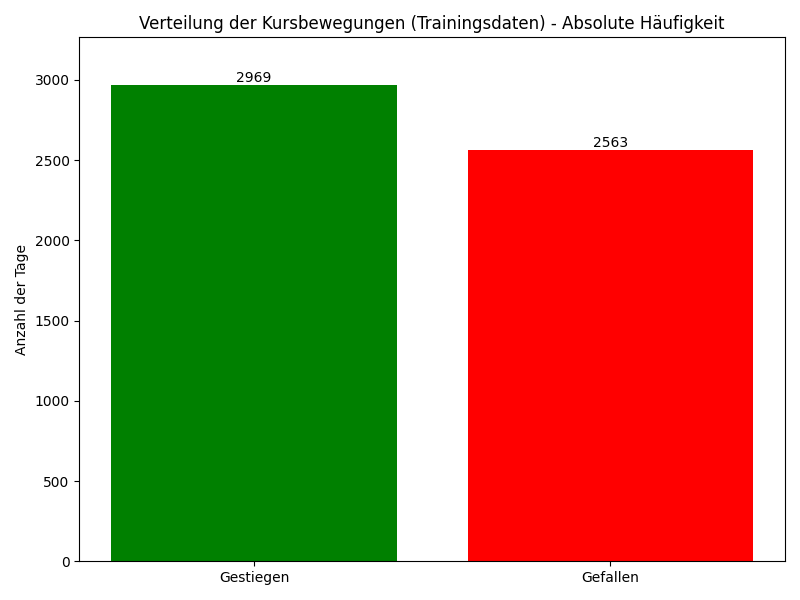
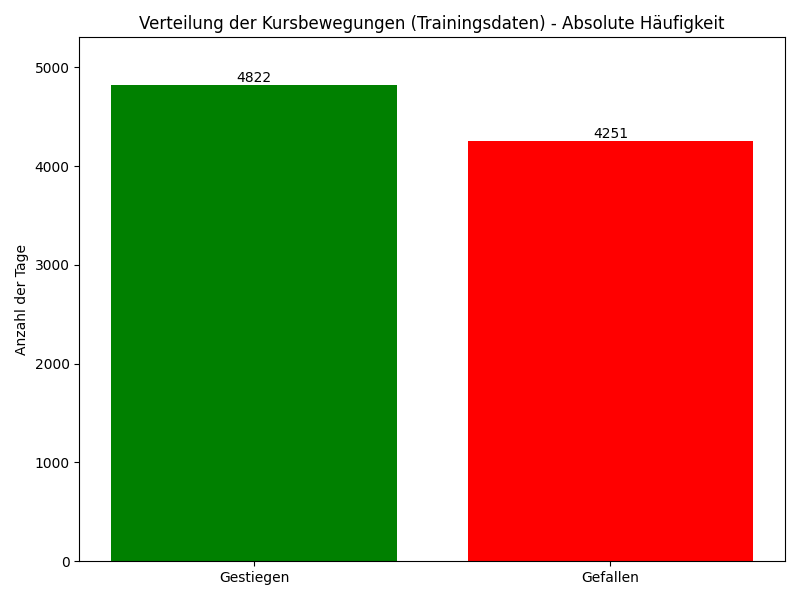
changed Trainingsdataplots

diff --git a/Experiment_2/PriceIncreaseAnalyzer.py b/Experiment_2/PriceIncreaseAnalyzer.py
@@ -89,8 +89,7 @@ class PriceIncreaseAnalyzer:
             self.df.sort_values('Date', inplace=True)
             self.df.reset_index(drop=True, inplace=True)
 
-            # Filtern der Daten ab dem 1994-01-01
-            start_date = pd.Timestamp('1994-01-01')
+            start_date = pd.Timestamp('1980-01-01')
             self.df = self.df[self.df['Date'] >= start_date].copy()
 
             # Identifizieren des ersten vollständigen Datensatzes (High, Low und Close nicht 0.0)
